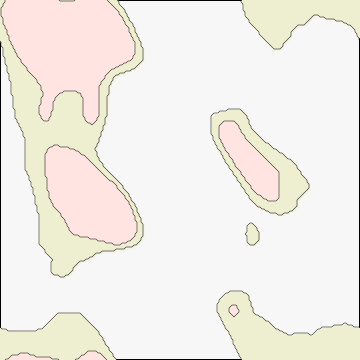
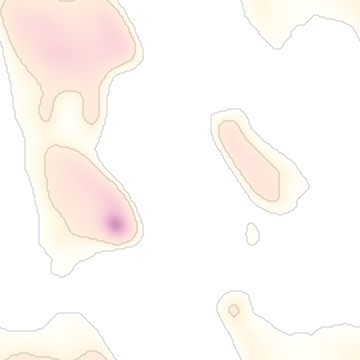
Gradient for Ramachandran plot
Make gradient colouring for Ramachandran plot (background images for
top5000 only).
Isolines in light grey and no more black outline of the background
image.
Sans 9 font for all.

diff --git a/src/rama_plot.cc b/src/rama_plot.cc
@@ -336,9 +336,7 @@ coot::rama_plot::init_internal(const std::string &mol_name,
 
 #ifdef HAVE_GOOCANVAS
 
-   // or just use?!
-   // fixed_font_str = "Sans 9"
-   fixed_font_str = coot::get_fixed_font();
+   fixed_font_str = "Sans 9";
 
    dragging = FALSE;
    drag_x = 0;
@@ -763,6 +761,38 @@ coot::rama_plot::setup_background(bool blocks, bool isolines) {
 }
 
 #ifdef HAVE_GOOCANVAS
+
+// return the merge colour based on start and end colour as well as probability
+// in c++11 array<int, 5> fillarr(int arr[])
+guint
+coot::rama_plot::get_intermediate_bg_colour(guint start_colour[4],
+                                            guint end_colour[4],
+                                            float prob_min, float prob_max,
+                                            float probability,
+                                            int quad_channel) {
+
+   static guint new_colour[4];
+   float x;
+   guint rgba_bg;
+
+   x = (probability - prob_min) / (prob_max - prob_min);
+
+   for (unsigned int i=0; i<4; i++) {
+      if (i == quad_channel)
+         new_colour[i] = (int)((1. - sqrt(x)) * (float)start_colour[i] +
+                               sqrt(x) * (float)end_colour[i]);
+      else
+         new_colour[i] = (int)((1. - x) * (float)start_colour[i] +
+                               x * (float)end_colour[i]);
+   }
+
+   // do some byte shift
+   rgba_bg = (new_colour[0] << 24) + (new_colour[1] << 16) +
+         (new_colour[2] << 8) + new_colour[3];
+
+   return rgba_bg;
+}
+
 // pass Ramachandran by type, e.g. r_gly...
 void
 coot::rama_plot::make_background(const clipper::Ramachandran rama_type,
@@ -793,6 +823,7 @@ coot::rama_plot::make_background(const clipper::Ramachandran rama_type,
          d2step = clipper::Util::d2rad(step);
          doit = 0;
 
+         guint bg_colour_start [4] = {255, 240, 220, 255};
          if ( rama_type.favored(x,y) ) {
             colour = "grey";
             colour = "red";
@@ -802,6 +833,14 @@ coot::rama_plot::make_background(const clipper::Ramachandran rama_type,
             colour = "Coral";
             colour = "LightSalmon";
             colour = "MistyRose";
+
+            guint bg_colour_end [4] = {210, 150, 190, 255};
+
+            bg_colour_rgba = get_intermediate_bg_colour(bg_colour_start, bg_colour_end,
+                                                        rama_threshold_preferred,
+                                                        max_prob,
+                                                        rama_type.probability(x,y),
+                                                        1);
 
             item = goo_canvas_rect_new(bg_group,
                                        i+0.0,
@@ -822,6 +861,16 @@ coot::rama_plot::make_background(const clipper::Ramachandran rama_type,
                colour = "Gold";
                colour = "LemonChiffon";
                colour = "LightYellow2";
+
+//               guint bg_colour_start2 [4] = {255, 255, 153, 255}; // LightYellow2
+               guint bg_colour_start2 [4] = {255, 255, 255, 255};
+               //guint bg_colour_end2 [4] = bg_colour_start;
+
+               bg_colour_rgba = get_intermediate_bg_colour(bg_colour_start2, bg_colour_start,
+                                                           rama_threshold_allowed,
+                                                           rama_threshold_preferred,
+                                                           rama_type.probability(x,y),
+                                                           2);
 
                item = goo_canvas_rect_new(bg_group,
                                           i+0.0,
@@ -1127,7 +1176,8 @@ coot::rama_plot::make_isolines(const clipper::Ramachandran rama_type, GooCanvasI
             item = goo_canvas_polyline_new_line(bg_group,
                                                 x1,y1,
                                                 x2,y2,
-                                                "stroke-color", "black",
+//                                                "stroke-color", "black",
+                                                "stroke-color", "grey60",
                                                 "line-width", 0.5,
 				NULL);
          }
@@ -1216,12 +1266,14 @@ coot::rama_plot::basic_white_underlay() {
    GooCanvasItem *item;
 
    float corner;
+
    if (psi_axis_mode == PSI_CLASSIC) {
       corner = -180.0;
    } else {
       corner = -240.0;
    }
-   // FIMXE:: think if not an outline on top later
+   // we dont do an outline around the white canvas
+   // but make a box later
    item = goo_canvas_rect_new(root,
             -180.0,
             corner,
@@ -1229,6 +1281,7 @@ coot::rama_plot::basic_white_underlay() {
             360.0,
             "fill-color", "grey97",
             "stroke-color", "black",
+            "line-width", 0.0,
             NULL);  
    // orig grey 90; grey 100 is white; 95 was good
 
@@ -1275,6 +1328,8 @@ coot::rama_plot::black_border() {
    border_group = goo_canvas_group_new(root, NULL);
 
    float psi_start, psi_end;
+   // now we make the black box around the canvas.
+   float line_thickness = 2.0;
    
    // maybe make these global!?
    if (psi_axis_mode == PSI_CLASSIC) {
@@ -1301,7 +1356,7 @@ coot::rama_plot::black_border() {
                                      TRUE, 0,
                                      "points", points,
                                      "stroke-color", "black",
-                                     "line-width", 2.0,
+                                     "line-width", line_thickness,
             NULL);
       goo_canvas_points_unref (points);
 

diff --git a/src/dynarama-main.cc b/src/dynarama-main.cc
@@ -285,6 +285,7 @@ main(int argc, char *argv[]) {
          do_help = true;
          break;
 
+      // This is used to make background images
       case 'x':
          print_help(argv[0]);
          n_used_args++;
